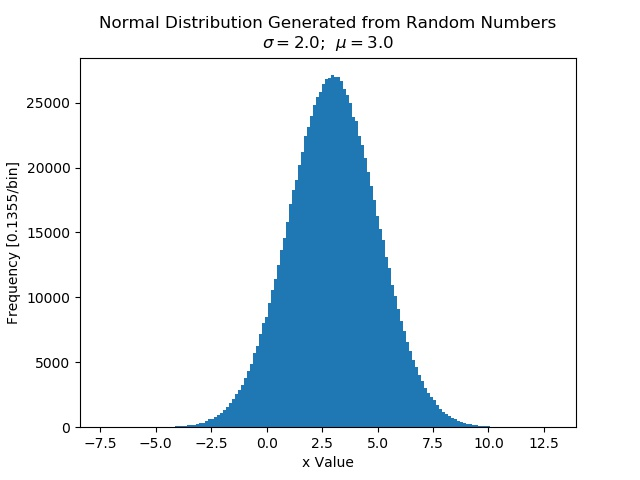
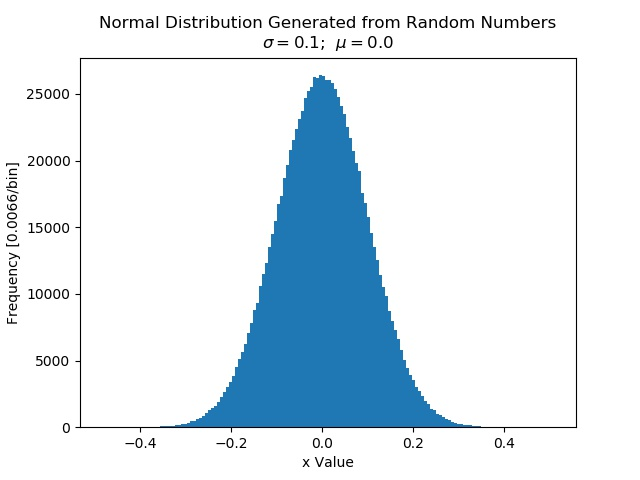
Added outputs

diff --git a/Iain_quiz/DAH_quiz.py b/Iain_quiz/DAH_quiz.py
@@ -22,8 +22,8 @@ def plot_hist(data, bins=150, title="", x_lab="", y_lab="", save=False, show=Tru
 
 
 def main():
-    mu = 3  # Define parameters.
-    sigma = 2
+    mu = 0.0  # Define parameters.
+    sigma = 0.1
 
     s = get_norm_numbers(mu, sigma, 1000000)
 
